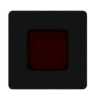
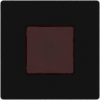
WIP: Redesigned play, pause and stop button. Redesigned slot indicator. Made the measurments. Implemented load and scale image in the utils.py and in the assets dict. Started to write the button class.

diff --git a/main.py b/main.py
@@ -1,36 +1,54 @@
+from utils import load_image, scale_image
+
 import pygame as pg
 from time import time
 
 class BeatMachine:
-    def __init__(self):
+    def __init__(self) -> None:
         pg.init()
         self.screen = pg.display.set_mode((1280, 720))
-        self.fps = 0
-        self.run = True
+        self.fps: int = 0
+        self.run: bool = True
 
-        self.bpm = 120
-        self.number_of_beats = 16
-        self.active_instrument_slot = 0
-        self.beat_duration = self.calculate_beat_times()
-        self.beat_time = 0
-        self.play = False
-        self.shift = False
+        self.bpm: int = 120
+        self.number_of_beats: int = 16
+        self.active_instrument_slot: int = 0
+        self.beat_duration: float = self.calculate_beat_times()
+        self.beat_time: float = 0
+        self.play: bool = False
+        self.shift: bool = False
 
-        self.dt = 0
-        self.last_time = time()
-        self.frames = 0
-        self.frames_timer = 0
-        self.instruments = [[0, 0, 0, 0, 0, 0, 0, 0, 0, 0, 0, 0, 0, 0, 0, 0,],
-                            [0, 0, 0, 0, 0, 0, 0, 0, 0, 0, 0, 0, 0, 0, 0, 0,],
-                            [0, 0, 0, 0, 0, 0, 0, 0, 0, 0, 0, 0, 0, 0, 0, 0,],
-                            [0, 0, 0, 0, 0, 0, 0, 0, 0, 0, 0, 0, 0, 0, 0, 0,],]
+        self.dt: float = 0
+        self.last_time: float = time()
+        self.frames: int = 0
+        self.frames_timer: float = 0
+        self.instruments: list = [[0, 0, 0, 0, 0, 0, 0, 0, 0, 0, 0, 0, 0, 0, 0, 0,],
+                                  [0, 0, 0, 0, 0, 0, 0, 0, 0, 0, 0, 0, 0, 0, 0, 0,],
+                                  [0, 0, 0, 0, 0, 0, 0, 0, 0, 0, 0, 0, 0, 0, 0, 0,],
+                                  [0, 0, 0, 0, 0, 0, 0, 0, 0, 0, 0, 0, 0, 0, 0, 0,],]
         
-        self.assets = {}
+        self.assets: dict = {
+            "body": scale_image(load_image(img_name="body"), scalefactor=0.55),
+            "bpm +- 1": scale_image(load_image(img_name="bpm plus minus 1"), scalefactor=0.55),
+            "bpm +- 10": scale_image(load_image(img_name="bpm plus minus 10"), scalefactor=0.55),
+            "button1/active": scale_image(load_image(img_name="button 1 activ"), scalefactor=0.55),
+            "button1/inactive": scale_image(load_image(img_name="button 1 inactiv"), scalefactor=0.55),
+            "button234/active": scale_image(load_image(img_name="button 234 activ"), scalefactor=0.55),
+            "button234/inactive": scale_image(load_image(img_name="button 234 inactiv"), scalefactor=0.55),
+            "pause": scale_image(load_image(img_name="button pause"), scalefactor=0.55),
+            "play/active": scale_image(load_image(img_name="button play activ"), scalefactor=0.55),
+            "play/inactive": scale_image(load_image(img_name="button play inactiv"), scalefactor=0.55),
+            "stop/active": scale_image(load_image(img_name="button stop activ"), scalefactor=0.55),
+            "stop/inactive": scale_image(load_image(img_name="button stop inactiv"), scalefactor=0.55),
+            "slider knob": scale_image(load_image(img_name="slider knob"), scalefactor=0.55),
+            "slot light/active": scale_image(load_image(img_name="slot indicator activ"), scalefactor=0.55),
+            "slot light/inactive": scale_image(load_image(img_name="slot indicator inactiv"), scalefactor=0.55),
+        }
         
-    def calculate_beat_times(self):
+    def calculate_beat_times(self) -> float:
         return 60 / (self.bpm * 4)
     
-    def slot_shifter(self):
+    def slot_shifter(self) -> None:
         if self.shift:
             print(self.active_instrument_slot)
             self.active_instrument_slot += 1
@@ -38,10 +56,10 @@ class BeatMachine:
             if self.active_instrument_slot > self.number_of_beats - 1:
                 self.active_instrument_slot = 0
 
-    def play_instruments(self):
+    def play_instruments(self) -> None:
         pass
 
-    def sum_beat_time(self):
+    def sum_beat_time(self) -> bool:
         self.beat_time += self.dt
         if self.beat_time >= self.beat_duration:
             self.beat_time = 0
@@ -49,23 +67,24 @@ class BeatMachine:
         else:
             return False
         
-    def calculate_fps(self):
+    def calculate_fps(self) -> None:
         self.frames += 1
         self.frames_timer += self.dt
         if self.frames_timer >= 1:
             self.fps = self.frames
             self.frames, self.frames_timer = 0, 0
 
-    def calculate_delta_time(self):
+    def calculate_delta_time(self) -> None:
         self.dt = time() - self.last_time
         self.last_time = time()
 
-    def draw_window(self):
+    def draw_window(self) -> None:
         pg.display.set_caption(f"     Beat Maschine     FPS: {self.fps}")
+        # self.screen.blit(self.assets["body"], (0,0))
 
         pg.display.update()
 
-    def main(self):       
+    def main(self) -> None:       
         while self.run:
             self.calculate_delta_time()
             self.calculate_fps()

diff --git a/utils.py b/utils.py
@@ -2,13 +2,20 @@ import os
 import pygame as pg
 
 
-def load_image():
-    pass
+def load_image(img_name: str) -> pg.Surface:
+    return pg.image.load("images/" + img_name + ".png")
 
 
-def scale_image():
-    pass
+def scale_image(image: str, scalefactor: float) -> pg.Surface:
+    return pg.transform.scale(image, (int(image.get_width() * scalefactor), int(image.get_height() * scalefactor)))
 
 
 class Button:
-    pass
+    def __init__(self, prog: object, type: str, mirror: bool = False, activatable: bool = False) -> None:
+        self.prog = prog
+        self.type = type
+        self.active = True if self.type == "stop" else False
+        if activatable:
+            if not self.active:
+                asset_string = f"{self.type}/inactive"
+        # self.image = self.prog.assets[]
